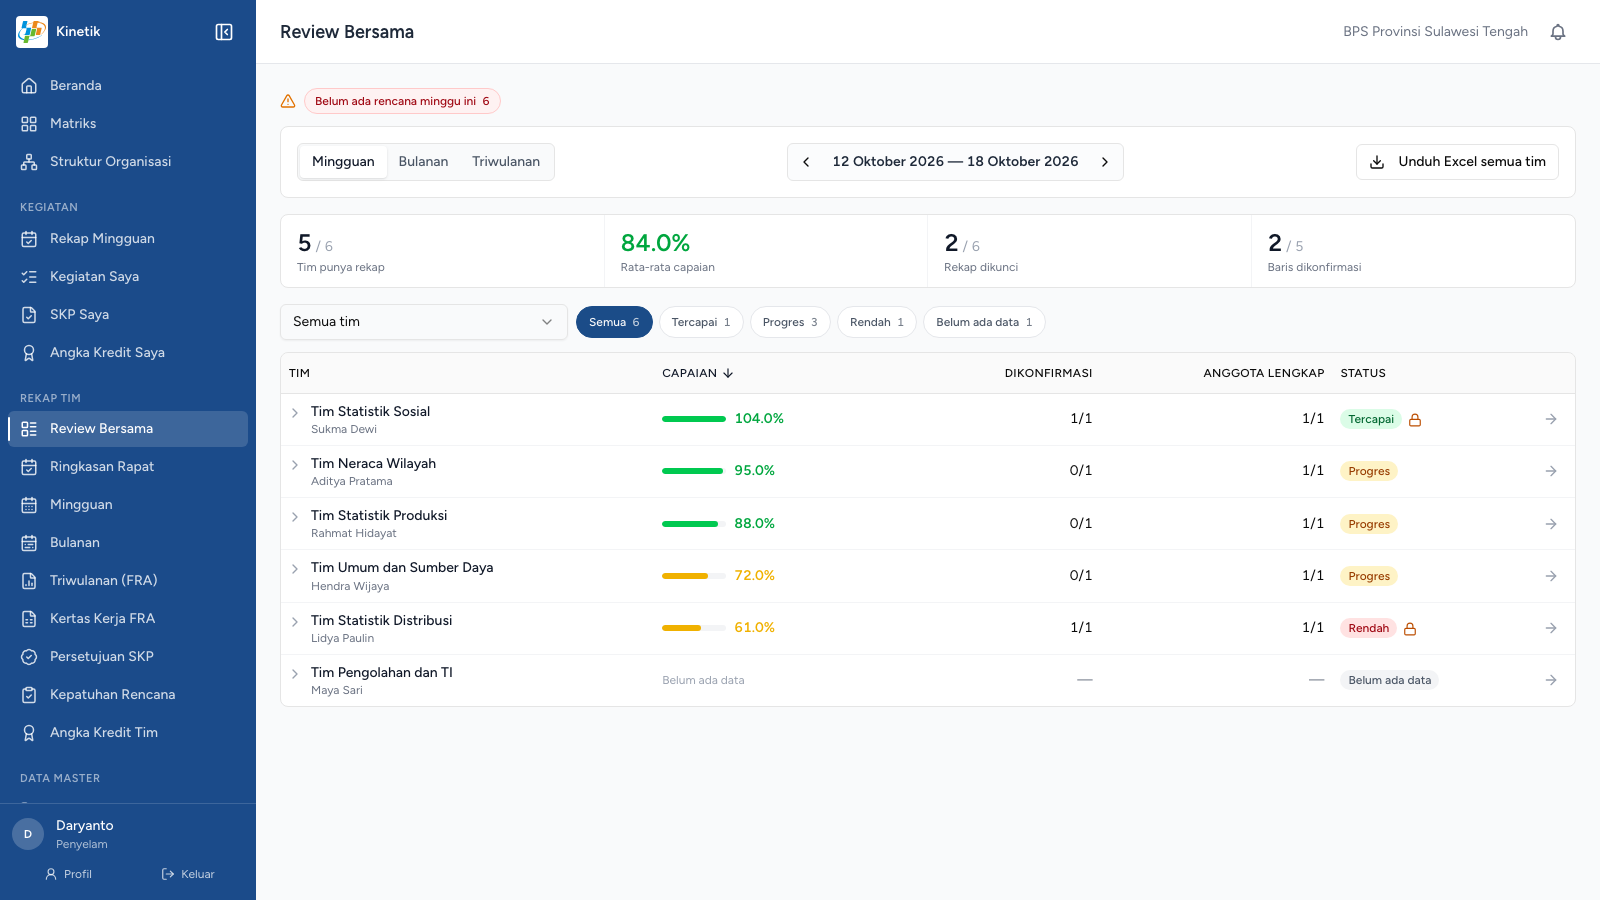
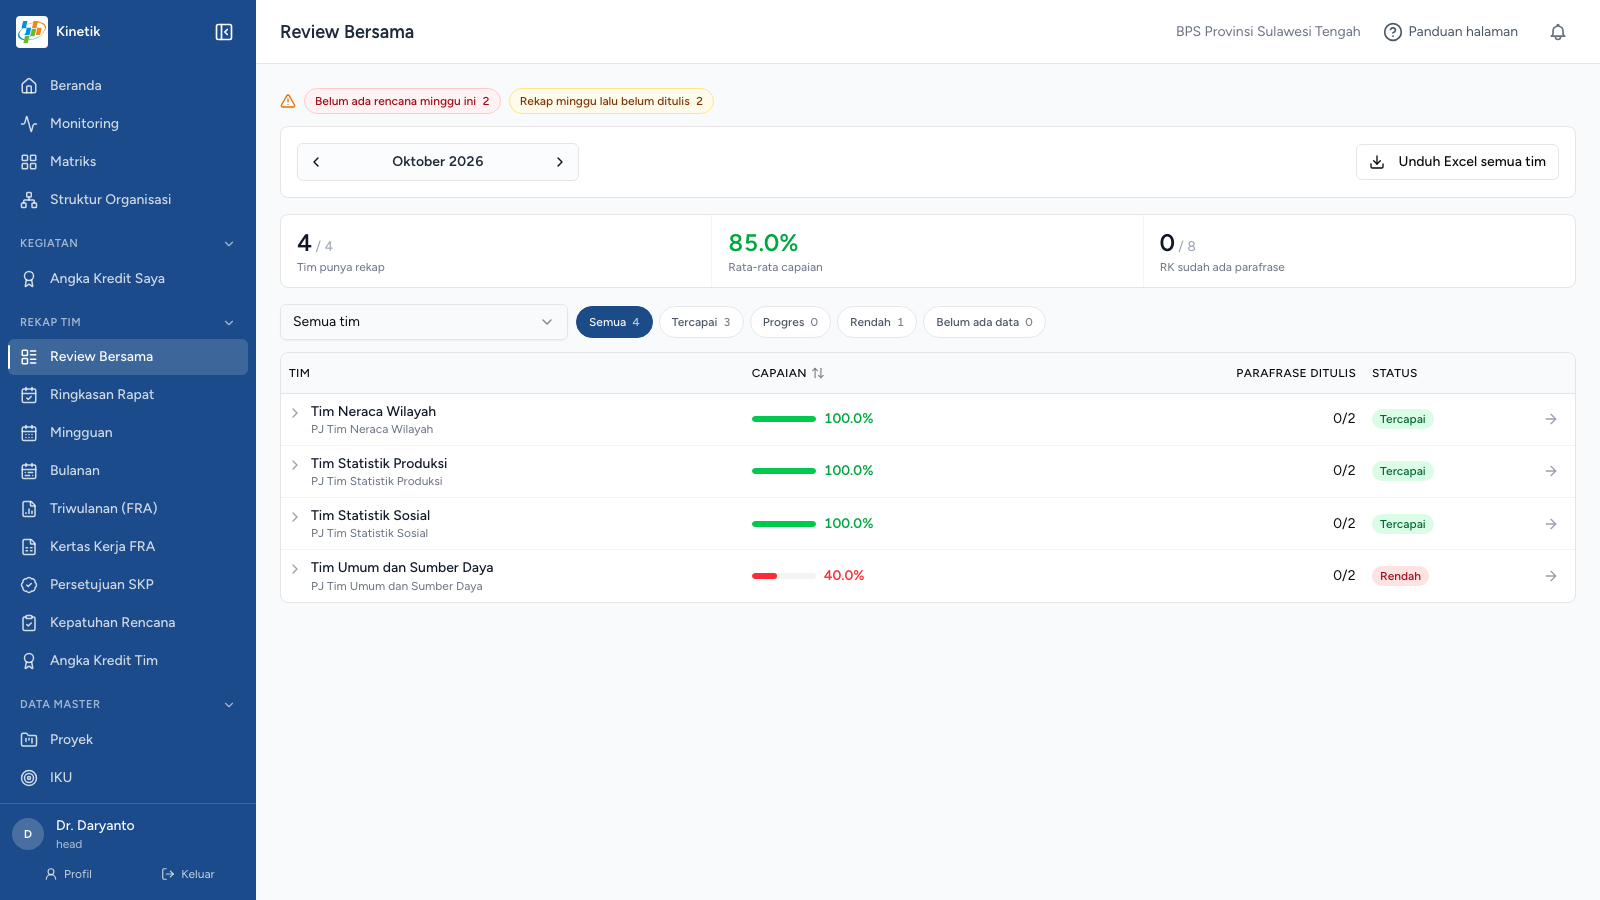
Decks: no RK lock, new status wording, Review Bersama monthly for pimpinan, refreshed screenshots

diff --git a/components/shotData.ts b/components/shotData.ts
@@ -63,33 +63,15 @@ export const shots: Record<string, ShotDef> = {
     },
     "pj-paraphrase": {
         "src": "/shots/pj-paraphrase.png",
+        "url": "kinetik.bpssulteng.id (contoh data)",
         "steps": [
-            {
-                "n": 1,
-                "x": 19.5,
-                "y": 42.5,
-                "text": "Kontribusi anggota di kiri. PJ membaca, lalu bisa mengambil kalimatnya."
-            },
-            {
-                "n": 2,
-                "x": 50.8,
-                "y": 42.5,
-                "text": "Parafrase PJ di kanan. Ditulis sendiri, tidak ada isi otomatis."
-            },
-            {
-                "n": 3,
-                "x": 50.8,
-                "y": 54,
-                "text": "Target, satuan, dan capaian RK berupa angka."
-            },
-            {
-                "n": 4,
-                "x": 50.8,
-                "y": 63,
-                "text": "Simpan, atau Simpan dan kunci supaya rekap tidak berubah lagi."
-            }
+            {"n": 1, "x": 35.1, "y": 52, "text": "Kontribusi anggota di kiri. PJ membaca, lalu bisa mengambil kalimatnya."},
+            {"n": 2, "x": 65.5, "y": 47.6, "text": "Parafrase PJ di kanan. Ditulis sendiri, tidak ada isi otomatis."},
+            {"n": 3, "x": 65.5, "y": 55.7, "text": "Target, satuan, dan capaian RK berupa angka."},
+            {"n": 4, "x": 54.2, "y": 64.7, "text": "Simpan. Tidak ada kunci: parafrase boleh diubah lagi kapan saja."}
         ]
     },
+
     "head-compliance": {
         "src": "/shots/head-compliance.png",
         "url": "kinetik.bpssulteng.id (contoh data)",
@@ -133,22 +115,24 @@ export const shots: Record<string, ShotDef> = {
         "src": "/shots/review-bersama.png",
         "url": "kinetik.bpssulteng.id (contoh data)",
         "steps": [
-            {"n": 1, "x": 26.6, "y": 17.9, "text": "Mingguan, bulanan, atau triwulanan, dengan panah untuk pindah periode."},
-            {"n": 2, "x": 18.8, "y": 27.8, "text": "Ringkasan kantor dalam satu deret angka."},
-            {"n": 3, "x": 43.4, "y": 41.4, "text": "Klik Capaian untuk mengurutkan dari tertinggi atau terendah."},
-            {"n": 4, "x": 85.5, "y": 46.4, "text": "Status capaian. Gembok berarti rekap sudah dikunci PJ."}
+            {"n": 1, "x": 27, "y": 17.9, "text": "Pindah bulan dengan panah. Review Bersama untuk pimpinan selalu per bulan."},
+            {"n": 2, "x": 20, "y": 29, "text": "Ringkasan kantor dalam satu deret angka."},
+            {"n": 3, "x": 49.2, "y": 41.4, "text": "Klik Capaian untuk mengurutkan dari tertinggi atau terendah."},
+            {"n": 4, "x": 87.7, "y": 46.6, "text": "Status capaian: Tercapai, Progres, Rendah, atau Belum ada data."}
         ]
     },
+
     "ringkasan-rapat": {
         "src": "/shots/ringkasan-rapat.png",
         "url": "kinetik.bpssulteng.id (contoh data)",
         "steps": [
-            {"n": 1, "x": 31.3, "y": 21.1, "text": "Rekap mingguan terkunci, rekap bulanan terkunci, dan tim yang punya bukti rapat."},
-            {"n": 2, "x": 51.9, "y": 33.1, "text": "Terkunci: PJ sudah menyelesaikan rekap. Angka kecil adalah jumlah bukti rapat."},
-            {"n": 3, "x": 62.1, "y": 33.2, "text": "Ditulis: ada parafrase tetapi belum dikunci."},
-            {"n": 4, "x": 93, "y": 33.2, "text": "Rapat bulanan tiap tim."}
+            {"n": 1, "x": 31.3, "y": 21.1, "text": "Rekap mingguan lengkap, rekap bulanan lengkap, dan tim yang punya bukti rapat."},
+            {"n": 2, "x": 51.4, "y": 33.2, "text": "Lengkap: semua RK yang punya kegiatan sudah ada parafrasenya. Angka kecil adalah jumlah bukti rapat."},
+            {"n": 3, "x": 71.7, "y": 33.2, "text": "Sebagian: baru sebagian RK yang ada parafrasenya."},
+            {"n": 4, "x": 92.9, "y": 33.2, "text": "Rapat bulanan tiap tim."}
         ]
     },
+
     "head-beranda": {
         "src": "/shots/head-beranda.png",
         "url": "kinetik.bpssulteng.id (contoh data)",
@@ -290,34 +274,16 @@ export const shots: Record<string, ShotDef> = {
     },
 
     "pj-months": {
-        "src": "/shots/pj-weekly.png",
+        "src": "/shots/pj-months.png",
+        "url": "kinetik.bpssulteng.id (contoh data)",
         "steps": [
-            {
-                "n": 1,
-                "x": 17.2,
-                "y": 18.5,
-                "text": "Pilih tim yang dipimpin."
-            },
-            {
-                "n": 2,
-                "x": 38.4,
-                "y": 26.2,
-                "text": "Jumlah kegiatan tim di tiap bulan."
-            },
-            {
-                "n": 3,
-                "x": 49,
-                "y": 26.2,
-                "text": "RK sudah ditulis dan Terkunci: sejauh mana rekap sudah dikerjakan."
-            },
-            {
-                "n": 4,
-                "x": 77,
-                "y": 30.7,
-                "text": "Status bulan, misalnya Belum ditulis. Klik satu bulan untuk lanjut."
-            }
+            {"n": 1, "x": 26.2, "y": 13.3, "text": "Pilih tim yang dipimpin."},
+            {"n": 2, "x": 40, "y": 20.9, "text": "Jumlah kegiatan tim di tiap bulan."},
+            {"n": 3, "x": 57, "y": 20.9, "text": "RK dengan kegiatan dan RK sudah ditulis: selisihnya adalah RK yang masih perlu parafrase."},
+            {"n": 4, "x": 83.8, "y": 62.2, "text": "Status bulan: Belum ada kegiatan, Belum ditulis, Sedang ditulis, atau Selesai ditulis. Klik satu bulan untuk lanjut."}
         ]
     },
+
     "pj-weeks": {
         "src": "/shots/pj-weeks.png",
         "steps": [
@@ -337,51 +303,22 @@ export const shots: Record<string, ShotDef> = {
                 "n": 3,
                 "x": 52.2,
                 "y": 26,
-                "text": "Kolom RK sudah ditulis dan Terkunci sama seperti daftar bulan, sekarang per minggu."
+                "text": "Kolom RK dengan kegiatan dan RK sudah ditulis sama seperti daftar bulan, sekarang per minggu."
             }
         ]
     },
     "pj-panel": {
         "src": "/shots/pj-panel.png",
+        "url": "kinetik.bpssulteng.id (contoh data)",
         "steps": [
-            {
-                "n": 1,
-                "x": 17.2,
-                "y": 23.1,
-                "text": "Kelengkapan anggota: berapa anggota yang sudah mengisi capaian."
-            },
-            {
-                "n": 2,
-                "x": 36.8,
-                "y": 30.4,
-                "text": "Belum mengisi: siapa yang masih perlu diingatkan."
-            },
-            {
-                "n": 3,
-                "x": 25.5,
-                "y": 50.7,
-                "text": "Pilih satu RK. Parafrase ditulis per RK."
-            },
-            {
-                "n": 4,
-                "x": 89.5,
-                "y": 57.9,
-                "text": "Tombol Isi parafrase. Kalau sudah ada isinya, tombolnya jadi Ubah parafrase."
-            },
-            {
-                "n": 5,
-                "x": 84.5,
-                "y": 63.9,
-                "text": "Target RK, Capaian RK, dan status kunci."
-            },
-            {
-                "n": 6,
-                "x": 16.3,
-                "y": 84.4,
-                "text": "Bukti Dukung Rapat: tambah bukti untuk minggu ini."
-            }
+            {"n": 1, "x": 18.6, "y": 56.2, "text": "Kelengkapan anggota: berapa anggota yang sudah mengisi capaian."},
+            {"n": 2, "x": 27.4, "y": 64.1, "text": "Pilih satu RK. Parafrase ditulis per RK."},
+            {"n": 3, "x": 91.6, "y": 71.6, "text": "Tombol Isi parafrase. Kalau sudah ada isinya, tombolnya jadi Ubah parafrase."},
+            {"n": 4, "x": 86.2, "y": 79.7, "text": "Target RK, Capaian RK, dan status Parafrase (Belum atau Sudah ditulis)."},
+            {"n": 5, "x": 18.6, "y": 97, "text": "Bukti Dukung Rapat: tambah bukti untuk minggu ini."}
         ]
     },
+
     "member-months": {
         "src": "/shots/member-months.png",
         "steps": [

diff --git a/components/MondayRitual.vue b/components/MondayRitual.vue
@@ -4,7 +4,7 @@ const props = defineProps<{ clicks: number }>();
 
 const days = ['Sen', 'Sel', 'Rab', 'Kam', 'Jum', 'Sab', 'Min'];
 const nodes = [
-    { n: 1, tag: 'Senin pagi', title: 'Evaluasi minggu lalu', text: 'Isi capaian dan bukti. PJ tulis parafrase per RK, lalu kunci rekap.' },
+    { n: 1, tag: 'Senin pagi', title: 'Evaluasi minggu lalu', text: 'Isi capaian dan bukti. PJ tulis parafrase per RK.' },
     { n: 2, tag: 'Senin pagi, sebelum 09.00', title: 'Rencana minggu ini', text: 'Tiap anggota isi rencana kegiatan minggu ini di Rekap Mingguan.' },
     { n: 3, tag: 'Selasa sampai Minggu', title: 'Kerja dan catat sekali', text: 'Catat di kipApp atau Kinetik. Auto sync, tidak ada copy-paste.' },
     { n: 4, tag: 'Setelah 09.00', title: 'Pimpinan cek', text: 'Kepatuhan Rencana dan panel Perlu perhatian: siapa yang belum punya rencana.' },

diff --git a/pages/21-pj-4-5-dari-mana-parafrase-diisi.md b/pages/21-pj-4-5-dari-mana-parafrase-diisi.md
@@ -1,15 +1,14 @@
 # PJ (3/4): dari mana parafrase diisi
 
-<span v-click="1"></span><span v-click="2"></span><span v-click="3"></span><span v-click="4"></span><span v-click="5"></span><span v-click="6"></span>
+<span v-click="1"></span><span v-click="2"></span><span v-click="3"></span><span v-click="4"></span><span v-click="5"></span>
 
 <Shot id="pj-panel" :clicks="$clicks" />
 
 <!--
 Ini bagian bawah halaman minggu tim. Di sinilah pintu masuk untuk menulis parafrase.
 [click] Pertama, Kelengkapan anggota. Di sini PJ melihat berapa anggota yang sudah mengisi capaian kegiatannya.
-[click] Kedua, label Belum mengisi menunjukkan siapa yang masih perlu diingatkan, tanpa PJ harus bertanya satu per satu.
-[click] Ketiga, PJ memilih satu RK. Parafrase ditulis per RK, bukan per orang.
-[click] Keempat, ini pintu masuknya: tombol Isi parafrase. Kalau parafrasenya sudah ada, tombol ini berubah jadi Ubah parafrase.
-[click] Kelima, di sebelah kanan ada Target RK, Capaian RK, dan status kunci rekap.
-[click] Keenam, Bukti Dukung Rapat, untuk menambah bukti rapat minggu ini.
+[click] Kedua, PJ memilih satu RK. Parafrase ditulis per RK, bukan per orang.
+[click] Ketiga, ini pintu masuknya: tombol Isi parafrase. Kalau parafrasenya sudah ada, tombol ini berubah jadi Ubah parafrase.
+[click] Keempat, di sebelah kanan ada Target RK, Capaian RK, dan status Parafrase: Belum atau Sudah ditulis. Tidak ada kunci, jadi parafrase bisa diubah kapan saja.
+[click] Kelima, Bukti Dukung Rapat, untuk menambah bukti rapat minggu ini.
 -->

diff --git a/pages/18-pj-1-5-pilih-bulan.md b/pages/18-pj-1-5-pilih-bulan.md
@@ -8,6 +8,6 @@
 Sisi PJ juga mulai dari daftar bulan, sama seperti anggota. Ini halaman Rekap Tim untuk tim MTI, dengan datanya sendiri.
 [click] Pertama, PJ memilih tim yang ia pimpin.
 [click] Kedua, kolom Kegiatan menunjukkan jumlah kegiatan seluruh anggota tim di tiap bulan.
-[click] Ketiga, RK sudah ditulis dan Terkunci menunjukkan sejauh mana rekap bulan itu sudah dikerjakan.
-[click] Keempat, status tiap bulan. Belum ditulis artinya parafrase belum ada. Klik satu bulan untuk lanjut ke daftar minggunya. Daftar minggu bentuknya sama, satu baris untuk satu minggu, dengan kolom RK sudah ditulis dan Terkunci per minggu dan tombol kembali ke semua bulan. Klik satu minggu untuk membuka rekapnya.
+[click] Ketiga, RK dengan kegiatan dan RK sudah ditulis. Selisih keduanya adalah RK yang masih perlu parafrase.
+[click] Keempat, status tiap bulan: Belum ada kegiatan, Belum ditulis, Sedang ditulis bila sebagian RK sudah ada parafrasenya, dan Selesai ditulis bila semuanya sudah. Klik satu bulan untuk lanjut ke daftar minggunya. Daftar minggu bentuknya sama, satu baris untuk satu minggu, dengan kolom RK dengan kegiatan dan RK sudah ditulis per minggu dan tombol kembali ke semua bulan. Klik satu minggu untuk membuka rekapnya.
 -->

diff --git a/pages/24b-pimpinan-ringkasan-rapat.md b/pages/24b-pimpinan-ringkasan-rapat.md
@@ -6,8 +6,8 @@
 
 <!--
 Halaman baru untuk melihat rapat mingguan dan bulanan tiap tim dalam satu layar. Datanya contoh.
-[click] Tiga angka merangkum bulan itu: rekap mingguan terkunci, rekap bulanan terkunci, dan tim yang melampirkan bukti rapat.
-[click] Tiap kolom satu minggu. Terkunci berarti PJ sudah menyelesaikan rekap minggu itu, dan angka kecil di sampingnya adalah bukti rapat yang dilampirkan.
-[click] Ditulis berarti sudah ada parafrase tetapi belum dikunci. Belum berarti belum ada apa-apa. Minggu yang belum terjadi dibiarkan kosong.
+[click] Tiga angka merangkum bulan itu: rekap mingguan lengkap, rekap bulanan lengkap, dan tim yang melampirkan bukti rapat.
+[click] Tiap kolom satu minggu. Lengkap berarti semua RK yang punya kegiatan sudah ada parafrasenya, dan angka kecil di sampingnya adalah bukti rapat yang dilampirkan.
+[click] Sebagian berarti baru sebagian RK yang ada parafrasenya. Belum berarti belum ada apa-apa. Minggu yang belum terjadi dibiarkan kosong.
 [click] Kolom terakhir adalah rapat bulanan tim itu. Klik satu status untuk membuka rekap timnya.
 -->

diff --git a/pages/22-pj-5-5-popup-parafrase.md b/pages/22-pj-5-5-popup-parafrase.md
@@ -1,4 +1,4 @@
-# PJ (4/4): popup parafrase dan kunci
+# PJ (4/4): popup parafrase
 
 <span v-click="1"></span><span v-click="2"></span><span v-click="3"></span><span v-click="4"></span>
 
@@ -9,5 +9,5 @@ Menekan tombol Isi parafrase tadi membuka popup ini. PJ menulis satu parafrase u
 [click] Pertama, di kiri ada kontribusi tiap anggota. PJ membaca, lalu bisa mengambil kalimatnya.
 [click] Kedua, di kanan PJ menulis parafrase sendiri. Tidak ada isi otomatis, karena ini memang butuh penilaian PJ.
 [click] Ketiga, target, satuan, dan capaian untuk RK itu, berupa angka.
-[click] Keempat, simpan, atau simpan dan kunci supaya rekap tidak berubah lagi.
+[click] Keempat, simpan. Tidak ada kunci: parafrase boleh diubah lagi kapan saja. Teksnya hanya terlihat oleh PJ, PIC RK, dan admin.
 -->

diff --git a/pages/24a-pimpinan-review-bersama.md b/pages/24a-pimpinan-review-bersama.md
@@ -7,7 +7,7 @@
 <!--
 Review Bersama sudah disederhanakan: lebih sedikit tulisan, ringkasan dalam satu deret angka, dan tabel yang bisa diurutkan. PJ juga punya halaman yang sama untuk tim yang ia ikuti. Datanya contoh.
 [click] Pilih mingguan, bulanan, atau triwulanan, lalu pindah periode dengan panah.
-[click] Ringkasan kantor: tim yang punya rekap, rata-rata capaian, rekap yang dikunci PJ, dan baris yang dikonfirmasi.
+[click] Ringkasan kantor: tim yang punya rekap, rata-rata capaian, dan RK yang sudah ada parafrasenya. Untuk pimpinan, Review Bersama selalu per bulan.
 [click] Klik judul kolom Capaian untuk mengurutkan: tertinggi dulu, terendah dulu, atau urutan awal. Tim tanpa data selalu di bawah.
 [click] Status capaian tiap tim, dan gembok bila PJ sudah mengunci rekapnya.
 -->

diff --git a/slides.md b/slides.md
@@ -103,7 +103,7 @@ src: ./pages/21-pj-4-5-dari-mana-parafrase-diisi.md
 ---
 
 ---
-src: ./pages/22-pj-5-5-popup-parafrase-dan-kunci.md
+src: ./pages/22-pj-5-5-popup-parafrase.md
 ---
 
 ---
